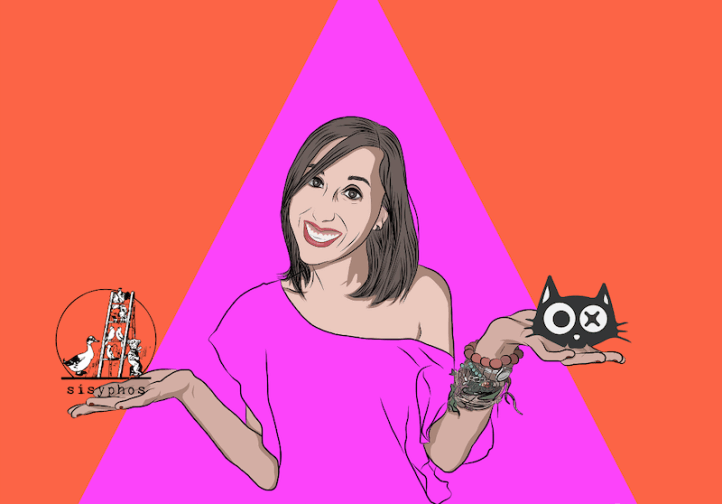
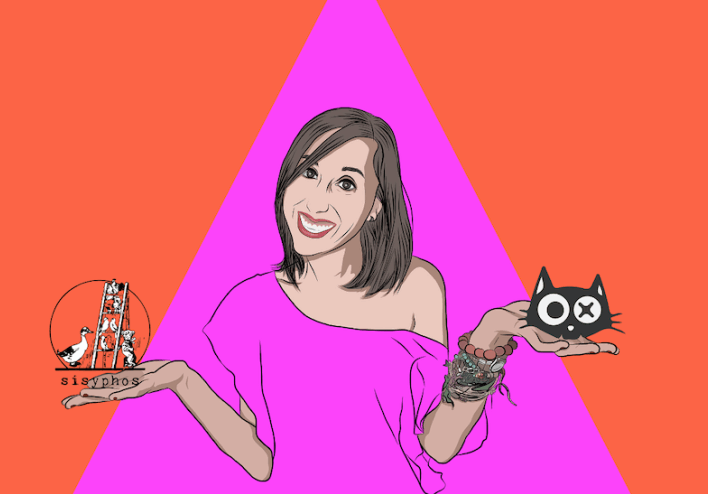
E530 22.6
Link a section
pic redone size

diff --git a/index.html b/index.html
@@ -301,7 +301,7 @@ Cuando nos hacen una radiografía se&nbsp;<a href="#" class="text-black">interpr
                 <!-- mbr-icon -->
                 <div class="btn-wrap">
                     <div class="iconbox iconfont-wrapper" on="tap: video0.show, my-lightboxvideo110" role="button" tabindex="0">
-                        <span class="amp-iconfont fa-play fa"><svg width="24" height="24" viewBox="0 0 1792 1792" xmlns="http://www.w3.org/2000/svg" fill="currentColor"><path d="M1576 927l-1328 738q-23 13-39.5 3t-16.5-36v-1472q0-26 16.5-36t39.5 3l1328 738q23 13 23 31t-23 31z"></path></svg></span>
+                        <span class="amp-iconfont fa-play fa"><svg width="100%" height="100%" viewBox="0 0 1792 1792" xmlns="http://www.w3.org/2000/svg" fill="currentColor"><path d="M1576 927l-1328 738q-23 13-39.5 3t-16.5-36v-1472q0-26 16.5-36t39.5 3l1328 738q23 13 23 31t-23 31z"></path></svg></span>
                     </div>
                     
                 </div>
@@ -589,7 +589,7 @@ Cuando nos hacen una radiografía se&nbsp;<a href="#" class="text-black">interpr
         <div class="row">
             <div class="col-lg-8 mx-auto mbr-form" data-form-type="formoid">
                 <!--Formbuilder Form-->
-                <form method="POST" class="mbr-form" action-xhr="https://formoid.net/api/amp-form/push" data-form-title="Form Name" id="myFormform19" on="submit:myFormform19.clear;submit-success:AMP.setState({myStateform19:{formdata01form19:{stateformdata01form19: '', valueformdata01form19: ''}, formdata11form19:{stateformdata11form19: '', valueformdata11form19: ''}, formdata21form19:{stateformdata21form19: '', valueformdata21form19: ''}, formdata41form19:{stateformdata41form19: '', valueformdata41form19: ''}, gdprform19:{stategdprform19: '', valuegdprform19: ''}}});submit-error:AMP.setState({myStateform19:{formdata01form19:{stateformdata01form19: myStateform19.formdata01form19.valueformdata01form19}, formdata11form19:{stateformdata11form19: myStateform19.formdata11form19.valueformdata11form19}, formdata21form19:{stateformdata21form19: myStateform19.formdata21form19.valueformdata21form19}, formdata41form19:{stateformdata41form19: myStateform19.formdata41form19.valueformdata41form19}, gdprform19:{stategdprform19: myStateform19.gdprform19.valuegdprform19}}})"><amp-state id="myStateform19"><script type="application/json"> {"formdata01form19":{ "stateformdata01form19": "", "valueformdata01form19": ""},"formdata11form19":{ "stateformdata11form19": "", "valueformdata11form19": ""},"formdata21form19":{ "stateformdata21form19": "", "valueformdata21form19": ""},"formdata41form19":{ "stateformdata41form19": "", "valueformdata41form19": ""},"gdprform19":{ "stategdprform19": "", "valuegdprform19": ""}}</script></amp-state><input type="hidden" name="email" data-form-email="true" value="YmoAIwsQrAB9E0D6UWK8Ls0FLBl/AuEitLPuEijr4GaEn75iN1isC08uXAZTF0O3cYhdnS4NPEKBbIWGylgEdA30vWFbwFTRjpk+r1j6D4KyIvYd2x29irRgyVnQg0Uh.yRc4sdCkIYlQf1ye4sD/NKodb2my+xk95/r+R88WitBPKcpdZYhnqFdajH4+gsVktsTdBKv921rY3eunWMmOjQwLYdtCo0+p/RO41dunIOCSZO7c47p6T2WTJ47ctj1U">
+                <form method="POST" class="mbr-form" action-xhr="https://formoid.net/api/amp-form/push" data-form-title="Form Name" id="myFormform19" on="submit:myFormform19.clear;submit-success:AMP.setState({myStateform19:{formdata01form19:{stateformdata01form19: '', valueformdata01form19: ''}, formdata11form19:{stateformdata11form19: '', valueformdata11form19: ''}, formdata21form19:{stateformdata21form19: '', valueformdata21form19: ''}, formdata41form19:{stateformdata41form19: '', valueformdata41form19: ''}, gdprform19:{stategdprform19: '', valuegdprform19: ''}}});submit-error:AMP.setState({myStateform19:{formdata01form19:{stateformdata01form19: myStateform19.formdata01form19.valueformdata01form19}, formdata11form19:{stateformdata11form19: myStateform19.formdata11form19.valueformdata11form19}, formdata21form19:{stateformdata21form19: myStateform19.formdata21form19.valueformdata21form19}, formdata41form19:{stateformdata41form19: myStateform19.formdata41form19.valueformdata41form19}, gdprform19:{stategdprform19: myStateform19.gdprform19.valuegdprform19}}})"><amp-state id="myStateform19"><script type="application/json"> {"formdata01form19":{ "stateformdata01form19": "", "valueformdata01form19": ""},"formdata11form19":{ "stateformdata11form19": "", "valueformdata11form19": ""},"formdata21form19":{ "stateformdata21form19": "", "valueformdata21form19": ""},"formdata41form19":{ "stateformdata41form19": "", "valueformdata41form19": ""},"gdprform19":{ "stategdprform19": "", "valuegdprform19": ""}}</script></amp-state><input type="hidden" name="email" data-form-email="true" value="EXRIDFgIjI5JNNLXXB9RUvnVDsJ1gsnpe5tf7n43Evzxg0M6KcBLJhXzuafty+9pCXlHcAaRDmhVC+omn6WENe7KGjiV0DeD0fZlk4nQM1chtBEeqhlBlQ3IysejBe+9.2/mcYaArqZqurLagy1QGTTTnm/8i6oNqiqd1U7L0zqks6n4auOb9jSjr8usBcG8aCcwMMsm4UsvzrjdM1ViyAtnAPksckCTus0K7woMVd2Hm0r3CL/x9EWwJ1qD6JWVd">
                     <div class="mbr-row">
                         <div submit-success="" class="mbr-col-lg-12 mbr-col-md-12 mbr-col-sm-12">
                             <template data-form-alert="" type="amp-mustache">Thank you for your message</template>

diff --git a/artwork.html b/artwork.html
@@ -259,7 +259,7 @@ body{font-family: Lexend Deca;}blockquote{border-color: #ff4115;}div[submit-succ
 
                 <div class="mbr-col-sm-12 mbr-col-md-12 mbr-col-lg-12">
                     <div class="image-block">
-                        <amp-img src="assets/images/sonia-camacho-vectorial-keep-the-balance-722x504.png" layout="responsive" width="379.6230158730159" height="265" alt="Sonia Camacho - Keep the balance- Vectorial" class="placeholder-loader">
+                        <amp-img src="assets/images/sonia-camacho-vectorial-keep-the-balance-722x504.png" layout="responsive" width="379.7975708502024" height="265" alt="Sonia Camacho - Keep the balance- Vectorial" class="placeholder-loader">
                             <div placeholder="" class="placeholder">
                                 <div class="mobirise-spinner">
                                     <em></em>
@@ -315,7 +315,7 @@ body{font-family: Lexend Deca;}blockquote{border-color: #ff4115;}div[submit-succ
         <div class="mbr-row">
             <div class="mbr-col-sm-12 mbr-col-md-12 mbr-col-lg-12">
                 <div class="footer">
-                    <h3 class="align-right mbr-fonts-style mbr-bold display-1"><a href="index.html" class="text-black text-primary">Go back</a></h3>
+                    <h3 class="align-right mbr-fonts-style mbr-bold display-1"><a href="index.html#footer1-1" class="text-black text-primary">Go back</a></h3>
                 </div>
             </div>
         </div>

diff --git a/biography.html b/biography.html
@@ -199,7 +199,7 @@ body{font-family: Lexend Deca;}blockquote{border-color: #ff4115;}div[submit-succ
         <div class="mbr-row">
             <div class="mbr-col-sm-12 mbr-col-md-12 mbr-col-lg-12">
                 <div class="footer">
-                    <h3 class="align-right mbr-fonts-style mbr-bold display-1"><a href="index.html" class="text-primary">Go back</a></h3>
+                    <h3 class="align-right mbr-fonts-style mbr-bold display-1"><a href="index.html#header1-0" class="text-primary">Go back</a></h3>
                 </div>
             </div>
         </div>
